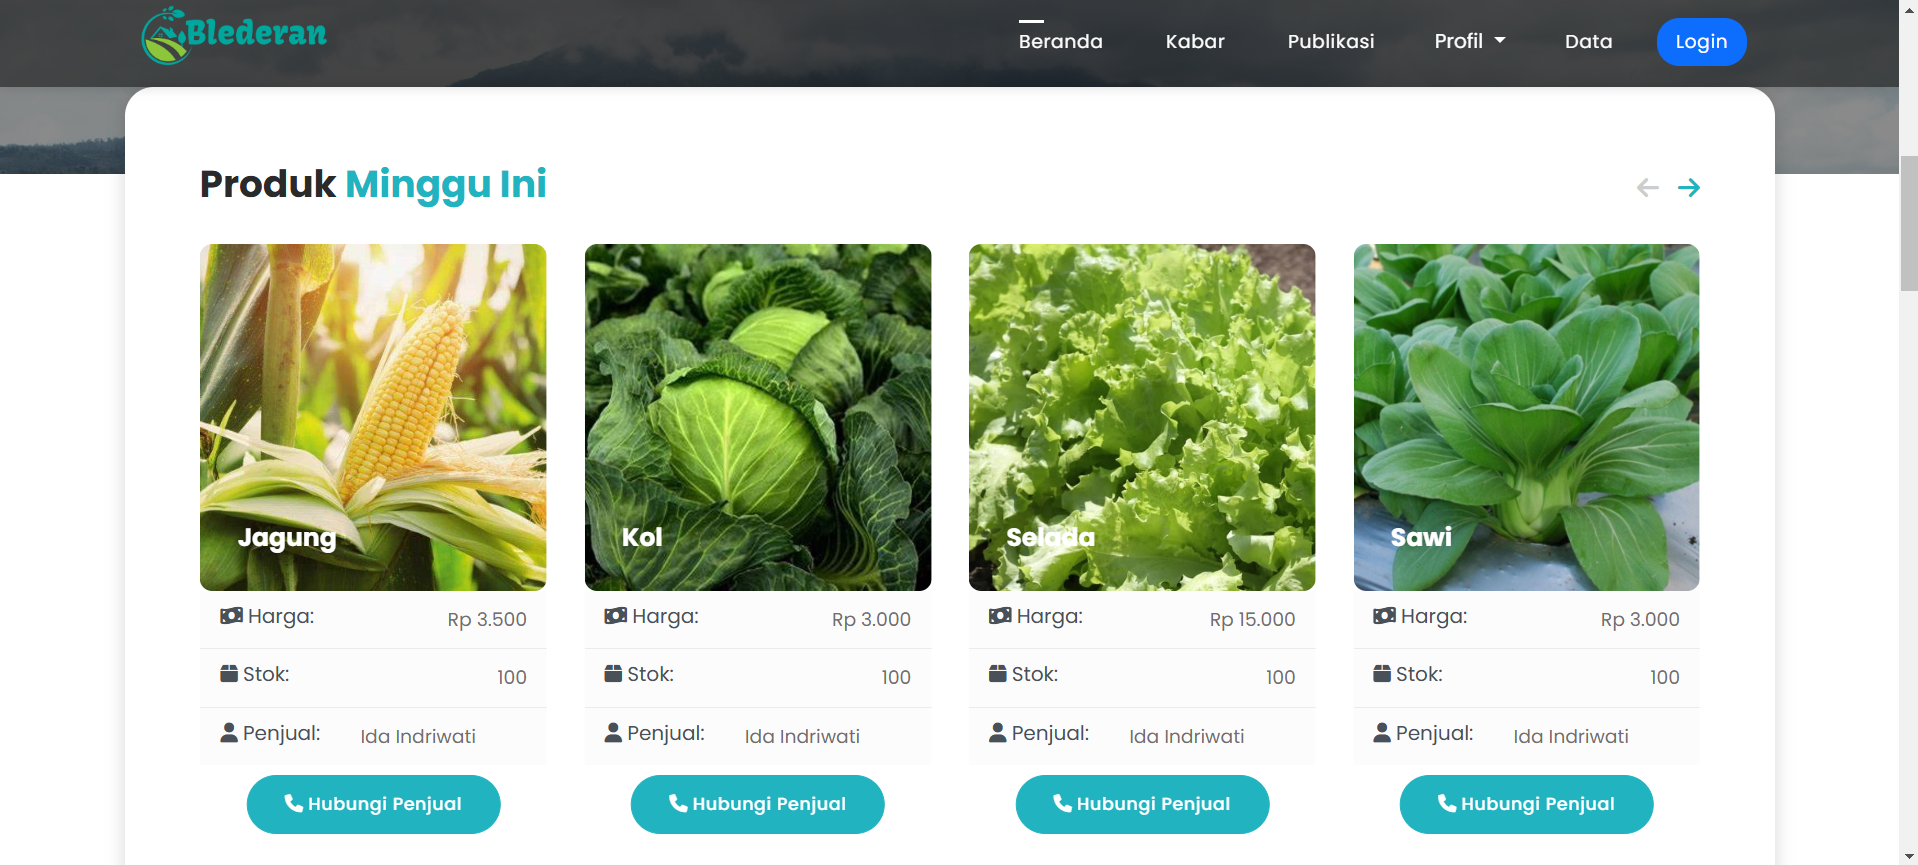
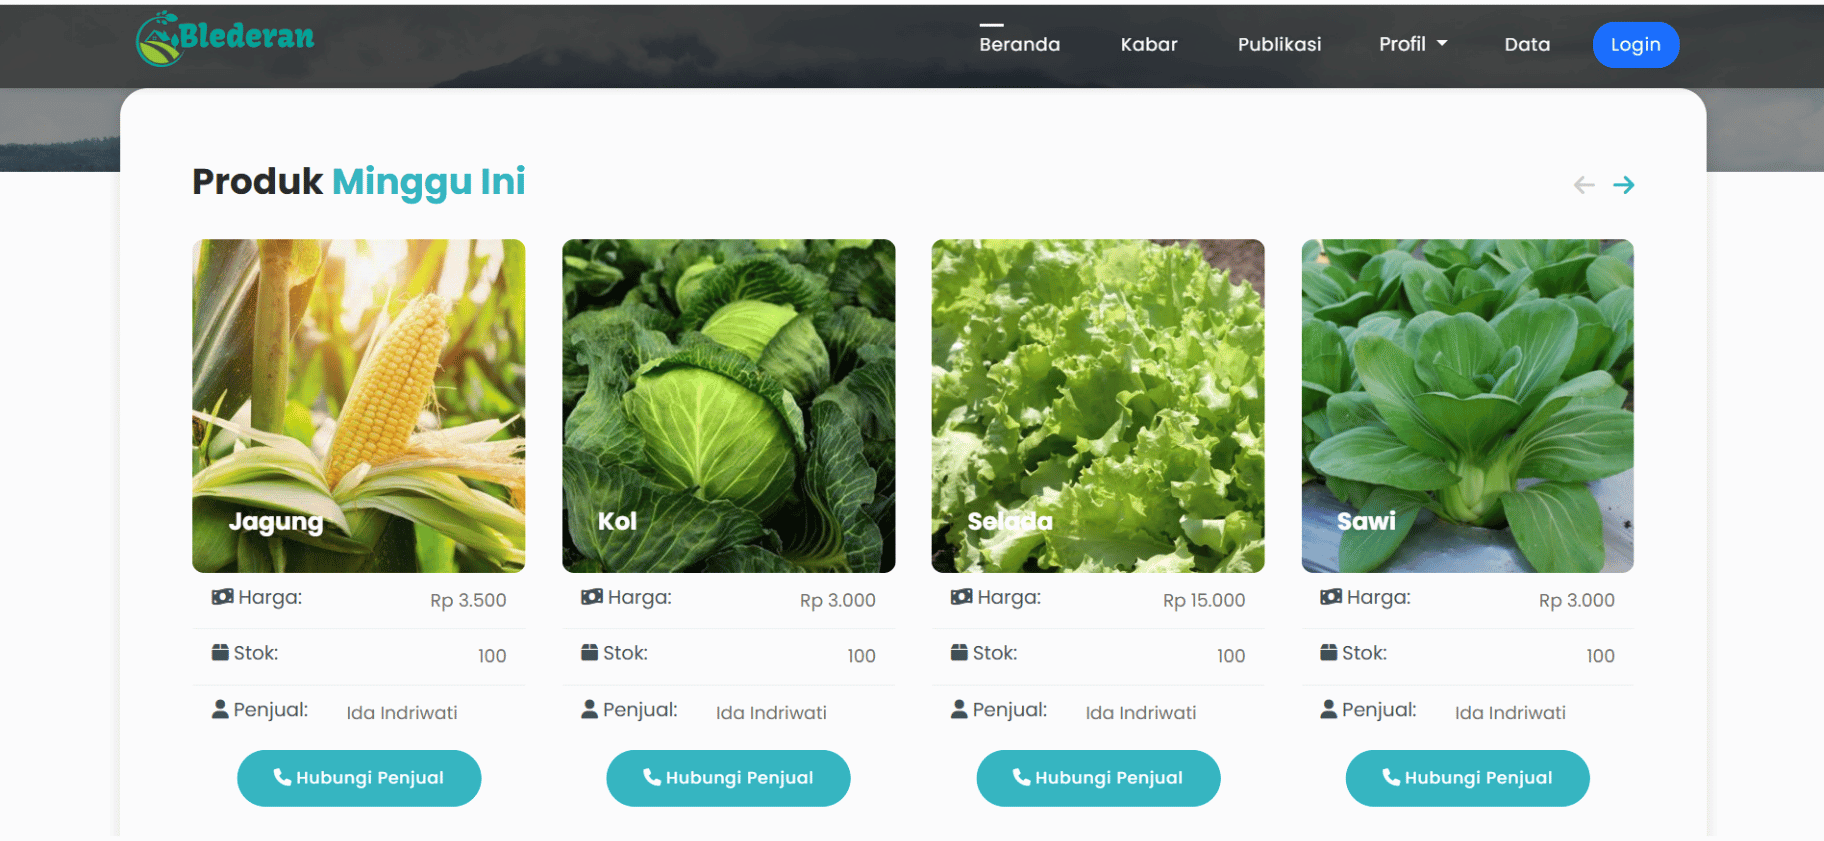
compres gambar

diff --git a/index.html b/index.html
@@ -341,7 +341,7 @@
                         </div>
                         <div class="modal-body">
                           <img
-                            src="assets/img/award/TALAK 2.1.png"
+                            src="assets/img/award/TALAK 2.1.jpg"
                             alt="Award"
                             class="award-img w-100"
                           />
@@ -395,12 +395,12 @@
                         </div>
                         <div class="modal-body">
                           <img
-                            src="assets/img/award/inovator.png"
+                            src="assets/img/award/inovator.jpg"
                             alt="Award"
                             class="award-img w-100"
                           />
                           <img
-                            src="assets/img/award/inovator-siragi.png"
+                            src="assets/img/award/inovator-siragi.jpg"
                             alt="Award"
                             class="award-img w-100"
                           />
@@ -454,7 +454,7 @@
                         </div>
                         <div class="modal-body">
                           <img
-                            src="assets/img/award/TALAK 2.1.png"
+                            src="assets/img/award/TALAK 2.1.jpg"
                             alt="Award"
                             class="award-img w-100"
                           />
